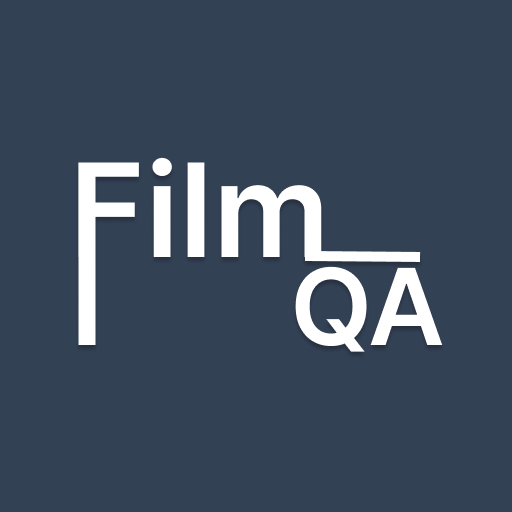
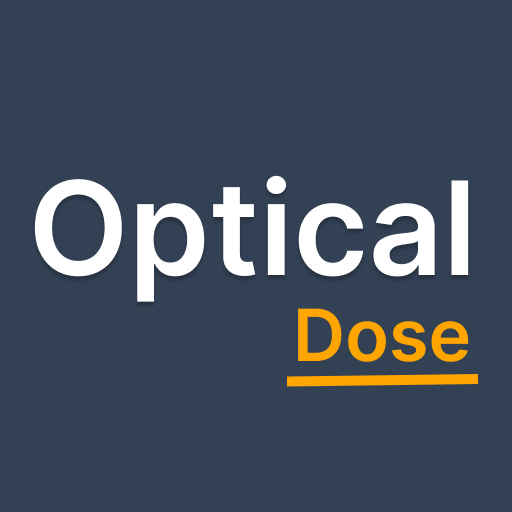
Project renamed to Optical Dose

Changed region(s): [[0.0625, 0.3125, 0.9375, 0.7812]]

diff --git a/MainWindow.xaml b/MainWindow.xaml
@@ -1,12 +1,12 @@
-<ui:FluentWindow x:Class="FilmQA.MainWindow"
+<ui:FluentWindow x:Class="OpticalDose.MainWindow"
         xmlns="http://schemas.microsoft.com/winfx/2006/xaml/presentation"
         xmlns:x="http://schemas.microsoft.com/winfx/2006/xaml"
         xmlns:d="http://schemas.microsoft.com/expression/blend/2008"
         xmlns:mc="http://schemas.openxmlformats.org/markup-compatibility/2006"
         xmlns:ui="http://schemas.lepo.co/wpfui/2022/xaml"
-        xmlns:local="clr-namespace:FilmQA"
+        xmlns:local="clr-namespace:OpticalDose"
         mc:Ignorable="d"
-        Title="Film QA" Height="900" Width="1400"
+        Title="Optical Dose" Height="900" Width="1400"
         Icon="/Icon.png"
         WindowStartupLocation="CenterScreen"
         WindowState="Maximized"
@@ -128,7 +128,7 @@
             <!-- 2. Foreground Title Overlay: Dynamic Contrast -->
             <Grid IsHitTestVisible="False">
                 <ui:TextBlock 
-                    Text="Film QA" 
+                    Text="Optical Dose" 
                     FontTypography="Caption" 
                     FontWeight="Bold" 
                     VerticalAlignment="Center"

diff --git a/AnalysisControl.xaml b/AnalysisControl.xaml
@@ -1,10 +1,10 @@
-<UserControl x:Class="FilmQA.AnalysisControl"
+<UserControl x:Class="OpticalDose.AnalysisControl"
              xmlns="http://schemas.microsoft.com/winfx/2006/xaml/presentation"
              xmlns:x="http://schemas.microsoft.com/winfx/2006/xaml"
              xmlns:mc="http://schemas.openxmlformats.org/markup-compatibility/2006" 
              xmlns:d="http://schemas.microsoft.com/expression/blend/2008" 
              xmlns:ui="http://schemas.lepo.co/wpfui/2022/xaml"
-             xmlns:local="clr-namespace:FilmQA"
+             xmlns:local="clr-namespace:OpticalDose"
              xmlns:ScottPlot="clr-namespace:ScottPlot.WPF;assembly=ScottPlot.WPF"
              mc:Ignorable="d" 
              d:DesignHeight="800" d:DesignWidth="1200">

diff --git a/App.xaml b/App.xaml
@@ -1,8 +1,8 @@
-<Application x:Class="FilmQA.App"
+<Application x:Class="OpticalDose.App"
              xmlns="http://schemas.microsoft.com/winfx/2006/xaml/presentation"
              xmlns:x="http://schemas.microsoft.com/winfx/2006/xaml"
              xmlns:ui="http://schemas.lepo.co/wpfui/2022/xaml"
-             xmlns:local="clr-namespace:FilmQA"
+             xmlns:local="clr-namespace:OpticalDose"
              StartupUri="MainWindow.xaml">
     <Application.Resources>
         <ResourceDictionary>

diff --git a/DicomControl.xaml b/DicomControl.xaml
@@ -1,9 +1,9 @@
-<UserControl x:Class="FilmQA.DicomControl"
+<UserControl x:Class="OpticalDose.DicomControl"
              xmlns="http://schemas.microsoft.com/winfx/2006/xaml/presentation"
              xmlns:x="http://schemas.microsoft.com/winfx/2006/xaml"
              xmlns:mc="http://schemas.openxmlformats.org/markup-compatibility/2006" 
              xmlns:d="http://schemas.microsoft.com/expression/blend/2008" 
-             xmlns:local="clr-namespace:FilmQA"
+             xmlns:local="clr-namespace:OpticalDose"
              xmlns:ui="http://schemas.lepo.co/wpfui/2022/xaml"
              mc:Ignorable="d" 
              d:DesignHeight="850" d:DesignWidth="1250">

diff --git a/FieldSizeWindow.xaml b/FieldSizeWindow.xaml
@@ -1,4 +1,4 @@
-<ui:FluentWindow x:Class="FilmQA.FieldSizeWindow"
+<ui:FluentWindow x:Class="OpticalDose.FieldSizeWindow"
         xmlns="http://schemas.microsoft.com/winfx/2006/xaml/presentation"
         xmlns:x="http://schemas.microsoft.com/winfx/2006/xaml"
         xmlns:ui="http://schemas.lepo.co/wpfui/2022/xaml"

diff --git a/StarShotWindow.xaml b/StarShotWindow.xaml
@@ -1,4 +1,4 @@
-<ui:FluentWindow x:Class="FilmQA.StarShotWindow"
+<ui:FluentWindow x:Class="OpticalDose.StarShotWindow"
         xmlns="http://schemas.microsoft.com/winfx/2006/xaml/presentation"
         xmlns:x="http://schemas.microsoft.com/winfx/2006/xaml"
         xmlns:ui="http://schemas.lepo.co/wpfui/2022/xaml"

diff --git a/MainWindow.xaml.cs b/MainWindow.xaml.cs
@@ -22,7 +22,7 @@ using System.Globalization;
 using System.Windows.Documents;
 using System.Printing;
 
-namespace FilmQA
+namespace OpticalDose
 {
     /// <summary>
     /// Interaction logic for MainWindow.xaml
@@ -218,7 +218,7 @@ namespace FilmQA
                     FontFamily = new System.Windows.Media.FontFamily("Segoe UI")
                 };
 
-                doc.Blocks.Add(new Paragraph(new Run("Film Dosimetry Report"))
+                doc.Blocks.Add(new Paragraph(new Run("Optical Dose Analysis Report"))
                 {
                     FontSize = 22,
                     FontWeight = FontWeights.Bold,
@@ -270,7 +270,7 @@ namespace FilmQA
                 {
                     doc.PageHeight = pd.PrintableAreaHeight;
                     doc.PageWidth = pd.PrintableAreaWidth;
-                    pd.PrintDocument(((IDocumentPaginatorSource)doc).DocumentPaginator, "Film Dosimetry Report");
+                    pd.PrintDocument(((IDocumentPaginatorSource)doc).DocumentPaginator, "Optical Dose Analysis Report");
                 }
             }
             catch (Exception ex)
@@ -436,7 +436,7 @@ namespace FilmQA
 
             stack.Children.Add(new System.Windows.Controls.TextBlock
             {
-                Text = "Film QA",
+                Text = "Optical Dose",
                 FontSize = 24,
                 FontWeight = FontWeights.Bold,
                 HorizontalAlignment = HorizontalAlignment.Center,
@@ -463,7 +463,7 @@ namespace FilmQA
 
             var dialog = new ContentDialog(_dialogService.GetContentPresenter())
             {
-                Title = "About Film QA",
+                Title = "About Optical Dose",
                 Content = stack,
                 CloseButtonText = "Close",
                 DefaultButton = ContentDialogButton.Close

diff --git a/AnalysisControl.xaml.cs b/AnalysisControl.xaml.cs
@@ -11,7 +11,7 @@ using System.Windows.Media.Imaging;
 using System.Windows.Shapes;
 using ScottPlot;
 
-namespace FilmQA
+namespace OpticalDose
 {
     public partial class AnalysisControl : UserControl
     {

diff --git a/App.xaml.cs b/App.xaml.cs
@@ -2,7 +2,7 @@ using System.Configuration;
 using System.Data;
 using System.Windows;
 
-namespace FilmQA;
+namespace OpticalDose;
 
 /// <summary>
 /// Interaction logic for App.xaml

diff --git a/CalibrationConfig.cs b/CalibrationConfig.cs
@@ -1,6 +1,6 @@
 using System;
 
-namespace FilmQA
+namespace OpticalDose
 {
     public class CalibrationConfig
     {

diff --git a/ColorMaps.cs b/ColorMaps.cs
@@ -1,6 +1,6 @@
 using System;
 
-namespace FilmQA
+namespace OpticalDose
 {
     /// <summary>
     /// Pure static color map routines for dose heatmap rendering.

diff --git a/DicomControl.xaml.cs b/DicomControl.xaml.cs
@@ -10,7 +10,7 @@ using FellowOakDicom;
 using FellowOakDicom.Imaging;
 using Microsoft.Win32;
 
-namespace FilmQA
+namespace OpticalDose
 {
     public class DoseExtractedEventArgs : EventArgs
     {